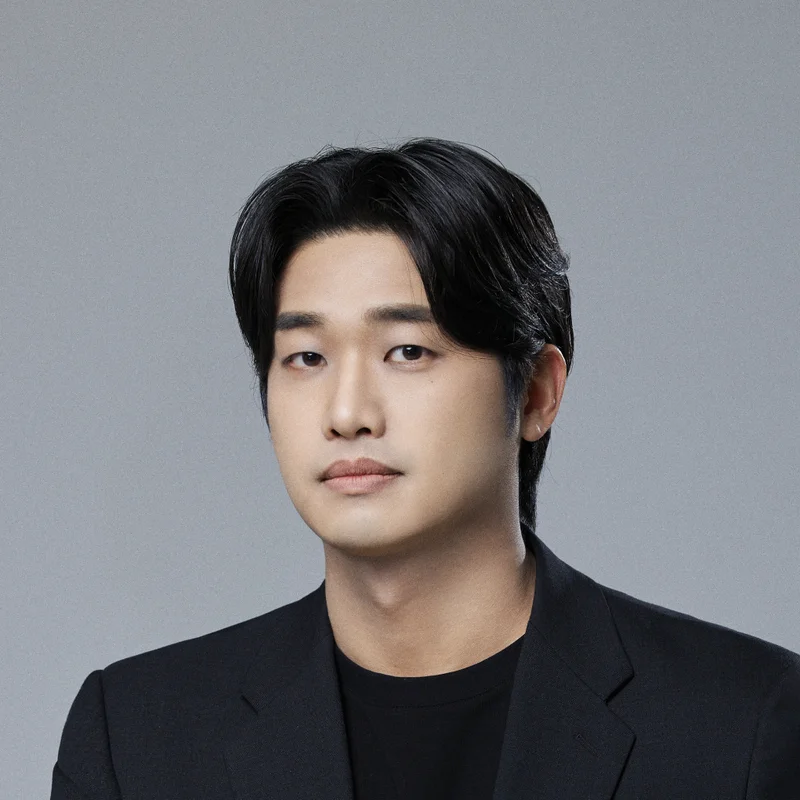
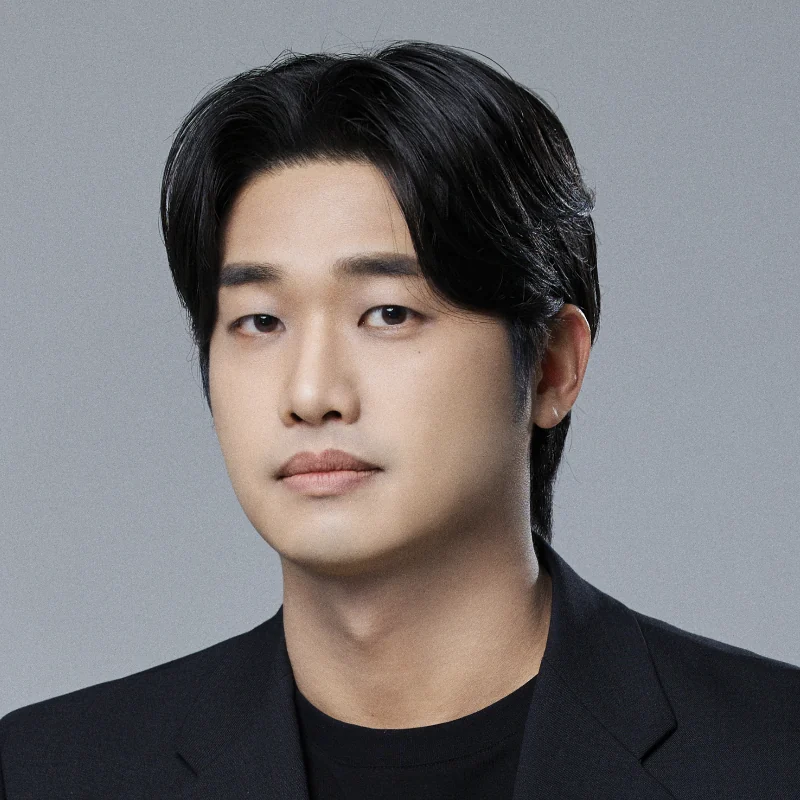
홈: 70만+ 위 유튜브 로고, 프로필 사진 머리~어깨로 다시 자름

diff --git a/src/app/_components/home/HomeAbout.tsx b/src/app/_components/home/HomeAbout.tsx
@@ -3,7 +3,7 @@
  * 홈 비블 소개 #about(2026-10-16 소유자 확정 안 C). 작은 정사각 인물 사진(3칸) + 제목·설명·사실 3줄(9칸).
  * 첫 화면 아래라 '첫 화면 인물 사진 없음' 규칙과 부딪히지 않는다.
  * 모션 A(소유자 결정 2026-10-17): 머리·사진·글 묶음이 화면에 들어올 때 한 번 떠오른다(data-animate="rise").
- * 사진은 public/home/bibl-portrait-original.webp(배경을 지우지 않은 원본 public/studio/instructor.jpg 를 가운데 정사각으로 잘라 800px, 소유자 요청 2026-10-17).
+ * 사진은 public/home/bibl-portrait-original.webp(배경을 지우지 않은 원본 public/studio/instructor.jpg 를 머리~어깨 정사각으로 잘라 800px, 소유자 요청 2026-10-17: 머리 위 여백 조금, 가슴 위에서 자름).
  */
 import { SectionHeader } from "@/components/ui/section-header";
 
@@ -37,7 +37,7 @@ export default function HomeAbout() {
                 src="/home/bibl-portrait-original.webp"
                 width={720}
                 height={720}
-                alt="비블 프로필 사진. 검은 배경 앞 검은 재킷 차림"
+                alt="비블 프로필 사진. 회색 배경 앞 검은 재킷 차림"
                 className="aspect-square w-full object-cover"
                 loading="lazy"
                 decoding="async"

diff --git a/src/app/_components/home/HomeIntroHero.tsx b/src/app/_components/home/HomeIntroHero.tsx
@@ -48,6 +48,11 @@ export default async function HomeIntroHero() {
         <div className="grid grid-cols-1 gap-8 lg:grid-cols-12 lg:items-end lg:gap-6">
           {/* 결과 먼저: 큰 숫자. 보이는 숫자는 장식, 스크린 리더는 sr-only 문장 */}
           <div data-animate="load" className="lg:col-span-6">
+            {/* 유튜브 로고(소유자 요청 2026-10-17): 70만+ 위 왼쪽. 브랜드 표식이라 유튜브 빨강 fill 리터럴(구글 로고와 같은 예외) */}
+            <svg aria-hidden="true" viewBox="0 0 28.57 20" className="mb-3 h-auto w-12 sm:w-14 lg:mb-4 lg:w-16">
+              <path fill="#FF0000" d="M27.97 3.12A3.58 3.58 0 0 0 25.45.6C23.22 0 14.29 0 14.29 0S5.35 0 3.12.6A3.58 3.58 0 0 0 .6 3.12C0 5.35 0 10 0 10s0 4.65.6 6.88a3.58 3.58 0 0 0 2.52 2.52c2.23.6 11.17.6 11.17.6s8.93 0 11.16-.6a3.58 3.58 0 0 0 2.52-2.52c.6-2.23.6-6.88.6-6.88s0-4.65-.6-6.88Z" />
+              <path fill="#FFFFFF" d="m11.43 14.29 7.42-4.29-7.42-4.29v8.58Z" />
+            </svg>
             <p className="tnum text-[88px] font-extrabold leading-[0.9] tracking-[-0.03em] sm:text-[120px] lg:text-[148px] xl:text-[176px]">
               <span aria-hidden="true">
                 <CountUp value="70만" />
